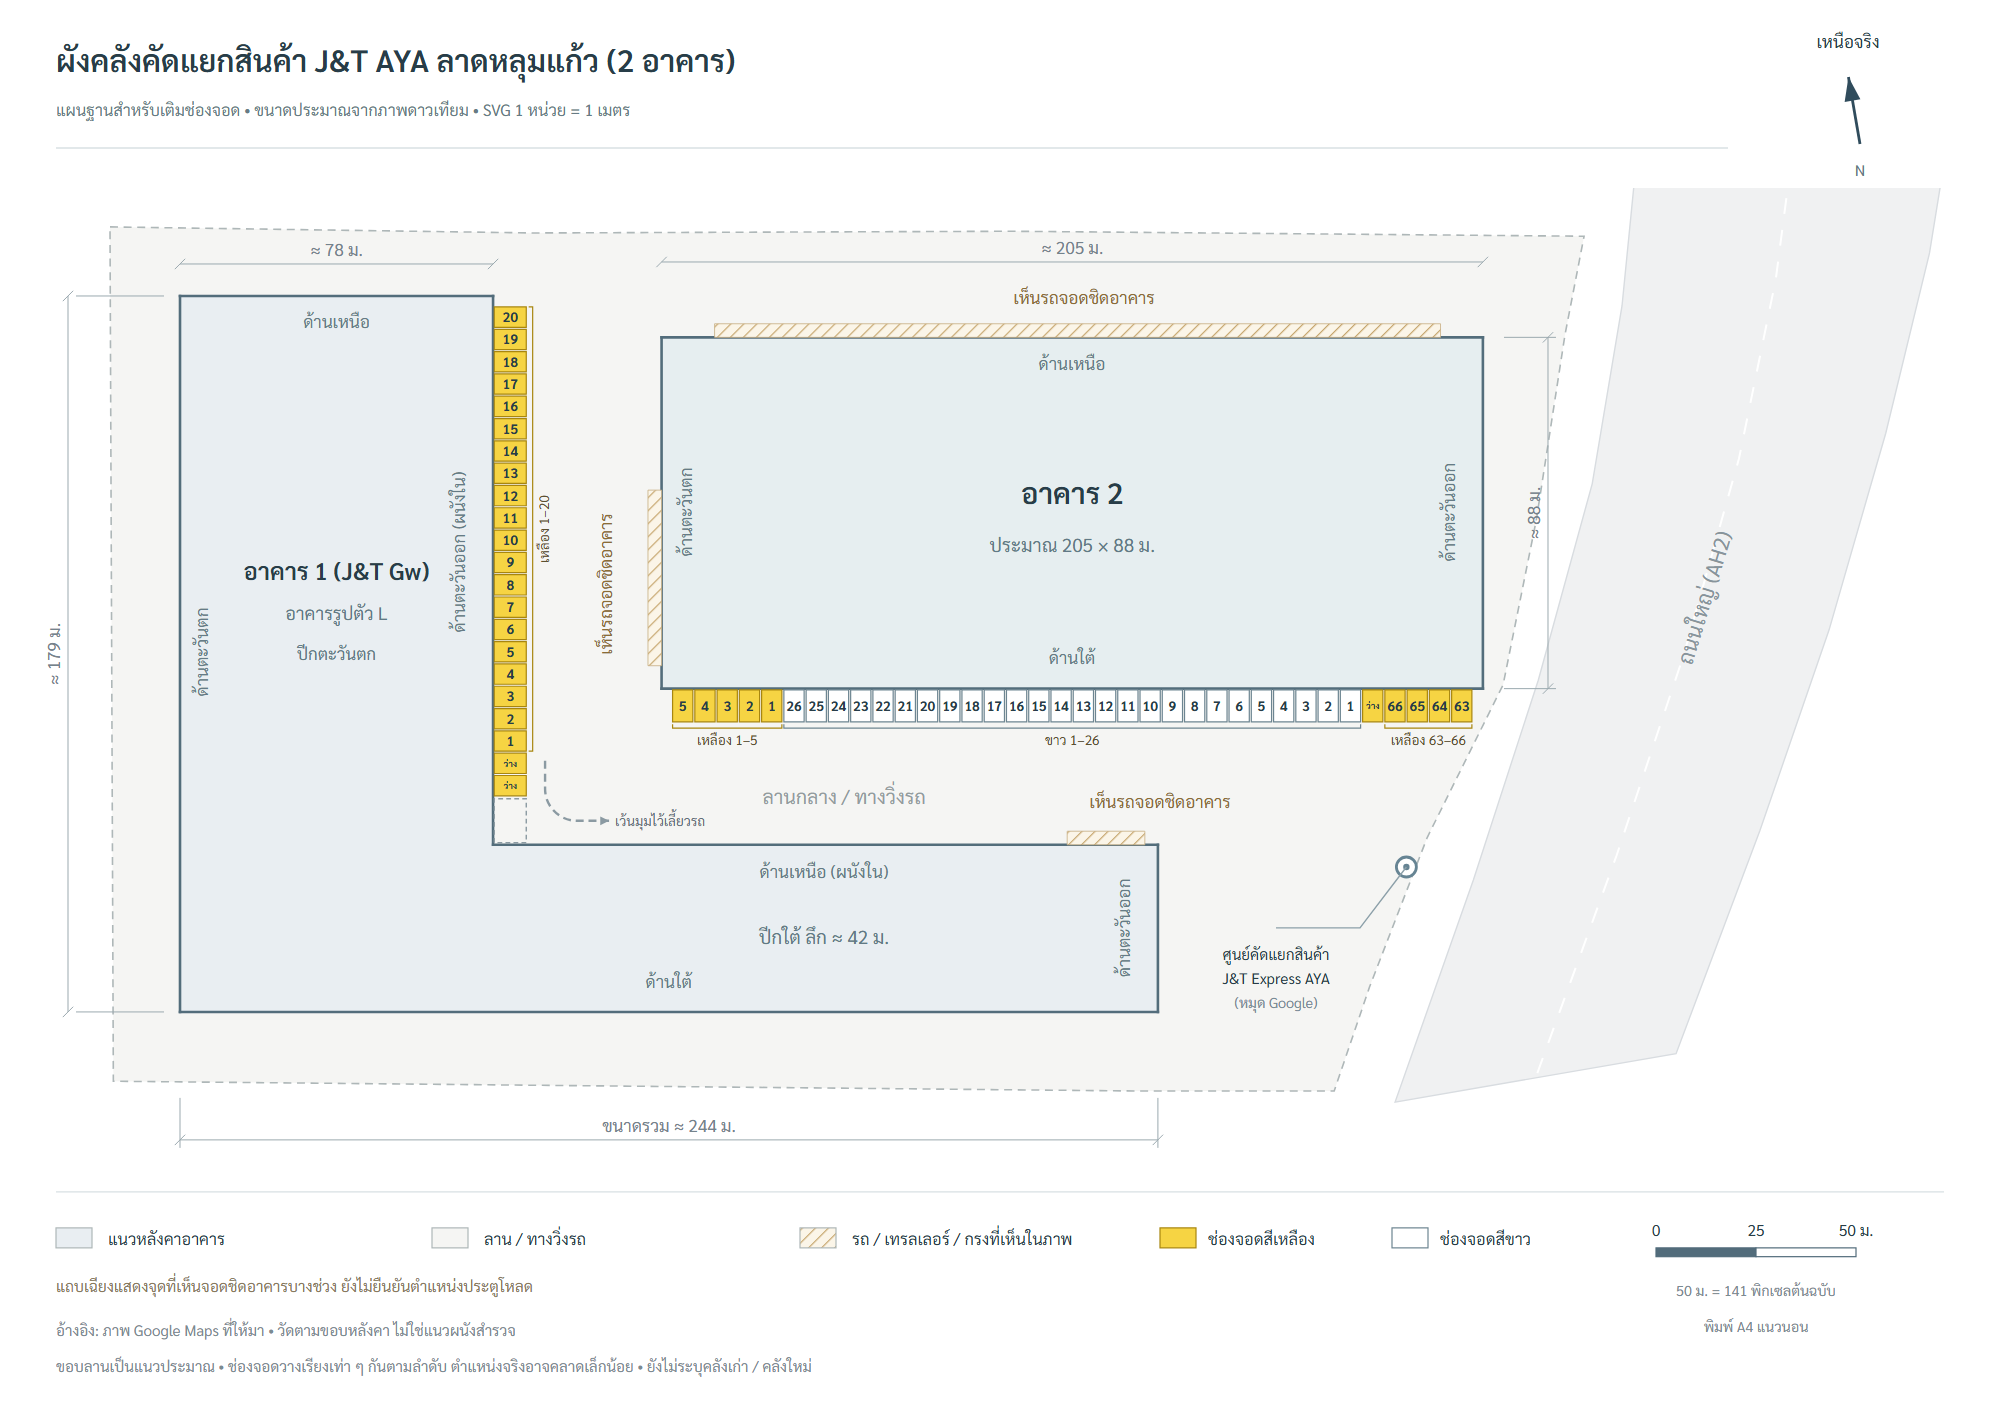
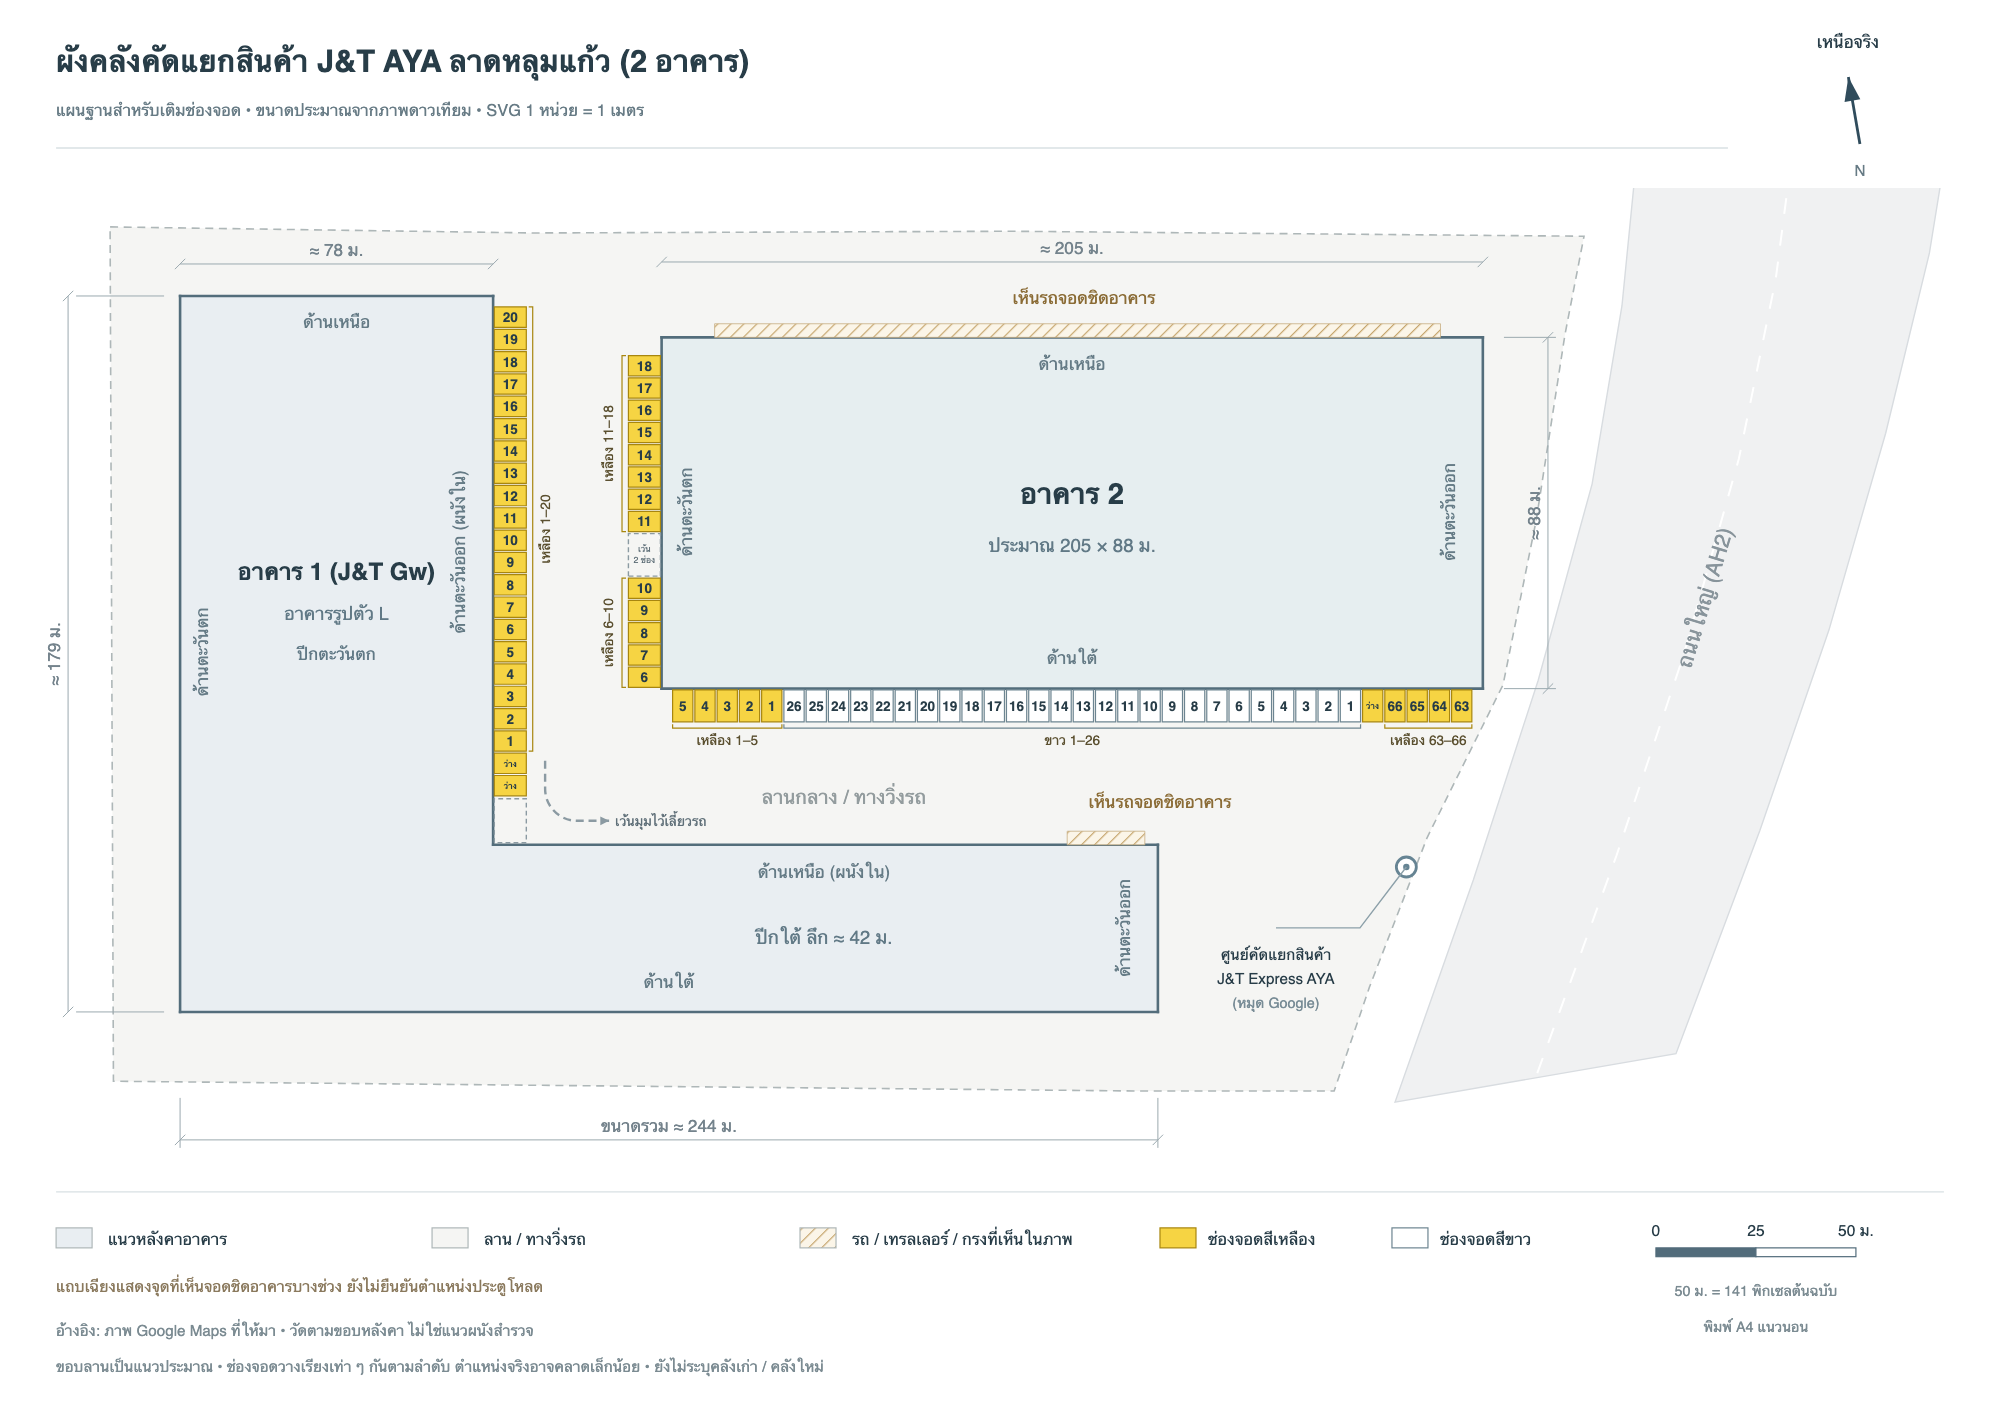
เพิ่มช่องจอดอาคาร 2 ด้านตะวันตก (เหลือง 6–10, เว้น 2 ช่อง, 11–18 จากล่างขึ้นบน) + ปุ่มขยาย

diff --git a/map.html b/map.html
@@ -37,13 +37,14 @@ h1{margin:4px 0 2px;font-size:24px;line-height:1.3}
   <div class="btns">
     <!-- data-x/y = ตำแหน่งแถวช่องจอดบนผัง (สัดส่วนของความกว้าง/สูงภาพ) -->
     <button type="button" class="btn primary zoomTo" data-x="0.66" data-y="0.50">ขยาย: อาคาร 2 ด้านใต้</button>
+    <button type="button" class="btn primary zoomTo" data-x="0.32" data-y="0.37">ขยาย: อาคาร 2 ด้านตะวันตก</button>
     <button type="button" class="btn primary zoomTo" data-x="0.27" data-y="0.40">ขยาย: อาคาร 1 ด้านตะวันออก</button>
     <button type="button" class="btn" id="fitBtn" hidden>ย่อ</button>
     <a class="btn" href="plan.svg">เปิดภาพเต็ม</a>
     <a class="btn" href="report.html">รายงานรถทอย</a>
   </div>
 </div>
-<div class="viewer" id="viewer"><img src="plan.svg" alt="ผังอาคาร 1 และอาคาร 2 พร้อมช่องจอดด้านใต้อาคาร 2 และด้านตะวันออกอาคาร 1"></div>
+<div class="viewer" id="viewer"><img src="plan.svg" alt="ผังอาคาร 1 และอาคาร 2 พร้อมช่องจอดด้านใต้และด้านตะวันตกอาคาร 2 และด้านตะวันออกอาคาร 1"></div>
 <div class="wrap"><p class="note">เลขช่องซ้ำได้ แยกด้วยสีพื้น (เหลือง / ขาว) · ช่องวางเรียงเท่า ๆ กัน ตำแหน่งจริงอาจคลาดเล็กน้อย</p></div>
 <script>
 const v = document.getElementById("viewer"), fit = document.getElementById("fitBtn");

diff --git a/slots.js b/slots.js
@@ -5,7 +5,7 @@
   const API = "https://urbvwplaoznyhvcsvore.supabase.co/rest/v1";
   const KEY = "sb_publishable_Vudb-REBewSsT9BWbTf1zA_8pLvwgqQ"; // คีย์สาธารณะ อ่านได้ทุกคน เขียนได้แค่ผ่านฟังก์ชัน jt_set_parking_slot
   const POLL_MS = 10000;
-  const BUILDINGS = {"b2-south": "อาคาร 2 ด้านใต้", "b1-inner-east": "อาคาร 1 ด้านตะวันออก"};
+  const BUILDINGS = {"b2-south": "อาคาร 2 ด้านใต้", "b2-west": "อาคาร 2 ด้านตะวันตก", "b1-inner-east": "อาคาร 1 ด้านตะวันออก"};
   const COLORS = {yellow: "เหลือง", white: "ขาว"};
 
   const viewer = document.getElementById("viewer");
